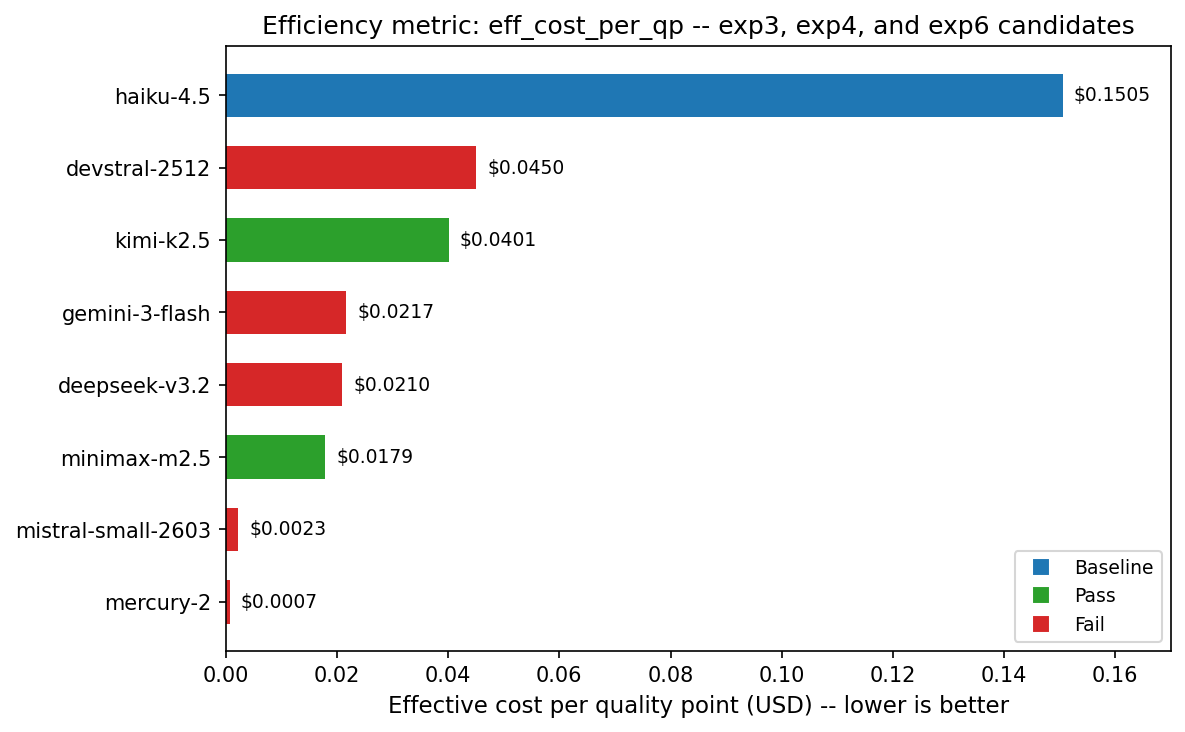
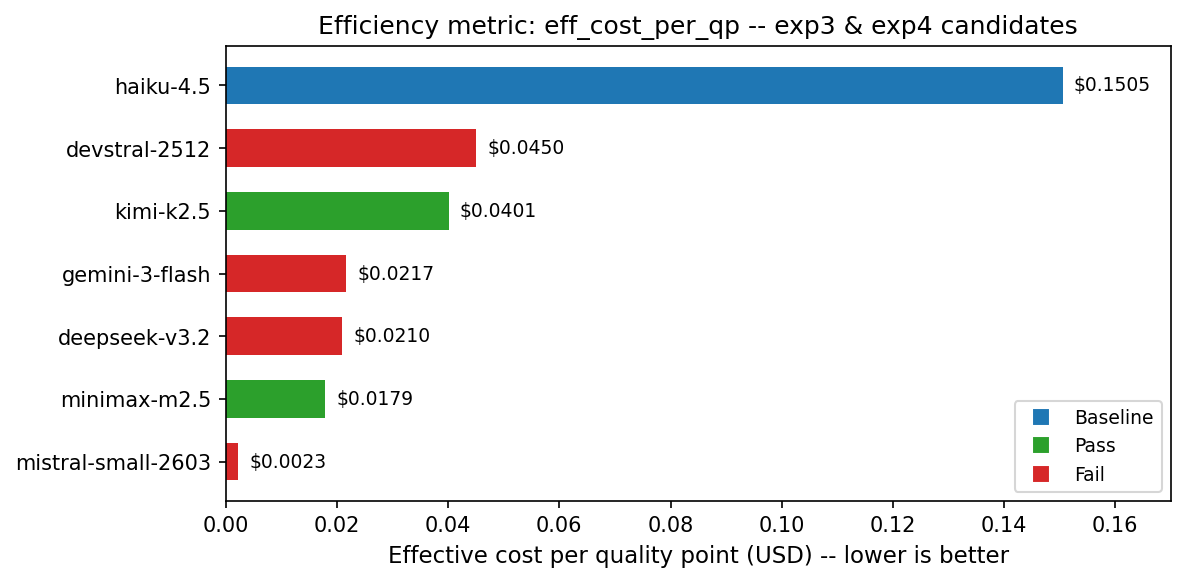
docs(readme): remove Mercury 2 from Table 3 and eff-cost-bar figure

diff --git a/figures/eff-cost-bar.py b/figures/eff-cost-bar.py
@@ -2,9 +2,9 @@ import matplotlib
 matplotlib.use('Agg')
 import matplotlib.pyplot as plt
 
-models    = ["minimax-m2.5", "gemini-3-flash", "deepseek-v3.2", "mistral-small-2603", "kimi-k2.5", "devstral-2512", "haiku-4.5", "mercury-2"]
-eff_cpqp  = [0.0179,         0.0217,           0.0210,          0.0023,               0.0401,       0.045,           0.1505,      0.0007]
-verdicts  = ["pass",         "fail",           "fail",          "fail",               "pass",       "fail",          "baseline",  "fail"]
+models    = ["minimax-m2.5", "gemini-3-flash", "deepseek-v3.2", "mistral-small-2603", "kimi-k2.5", "devstral-2512", "haiku-4.5"]
+eff_cpqp  = [0.0179,         0.0217,           0.0210,          0.0023,               0.0401,       0.045,           0.1505]
+verdicts  = ["pass",         "fail",           "fail",          "fail",               "pass",       "fail",          "baseline"]
 
 # Sort by eff_cpqp ascending
 sorted_data = sorted(zip(eff_cpqp, models, verdicts))
@@ -13,11 +13,11 @@ eff_cpqp_s, models_s, verdicts_s = zip(*sorted_data)
 colors_map = {"baseline": "#1f77b4", "pass": "#2ca02c", "fail": "#d62728"}
 bar_colors = [colors_map[v] for v in verdicts_s]
 
-fig, ax = plt.subplots(figsize=(8, 5))
+fig, ax = plt.subplots(figsize=(8, 4))
 bars = ax.barh(models_s, eff_cpqp_s, color=bar_colors, height=0.6)
 
 ax.set_xlabel("Effective cost per quality point (USD) -- lower is better", fontsize=11)
-ax.set_title("Efficiency metric: eff_cost_per_qp -- exp3, exp4, and exp6 candidates", fontsize=12)
+ax.set_title("Efficiency metric: eff_cost_per_qp -- exp3 & exp4 candidates", fontsize=12)
 ax.set_xlim(0, 0.17)
 
 # Annotate bars with values

diff --git a/README.md b/README.md
@@ -83,9 +83,8 @@ Composite metric: `eff_cost_per_qp = cost_per_run / (mean_score * reliability)`.
 | Kimi K2.5 | 6.6 | $0.221 | 0.833 | $0.040 | 11.6m | pass |
 | Devstral 2512 | 3.0 | $0.113 | 0.833 | $0.045 | 2.6m | fail |
 | Haiku 4.5 | 5.8 | $0.873 | 1.000 | $0.150 | 2.8m | baseline |
-| Mercury 2 | 4.6 | $0.003 | 1.000 | $0.001 | 0.1m | fail |
 
-*Table 3: Composite efficiency metric (eff_cost_per_qp) per model. Sort order: ascending eff_cost_per_qp. Qwen3 Coder omitted (0 valid runs; metric undefined). DeepSeek V3.2 included for completeness but fails all gates. Mercury 2 cost and wall time reflect the SCOUT role (exp6).*
+*Table 3: Composite efficiency metric (eff_cost_per_qp) per model. Sort order: ascending eff_cost_per_qp. Qwen3 Coder omitted (0 valid runs; metric undefined). DeepSeek V3.2 included for completeness but fails all gates.*
 
 DeepSeek V3.2 ranks 2nd by this metric but fails all gates; eff_cost_per_qp is not a valid ranking signal for models that do not pass. Among passing candidates, MiniMax M2.5 ($0.018/QP) is 2x more cost-effective per quality point than Kimi K2.5 ($0.040/QP). Wall time is reported separately and is not folded into the composite.
 
